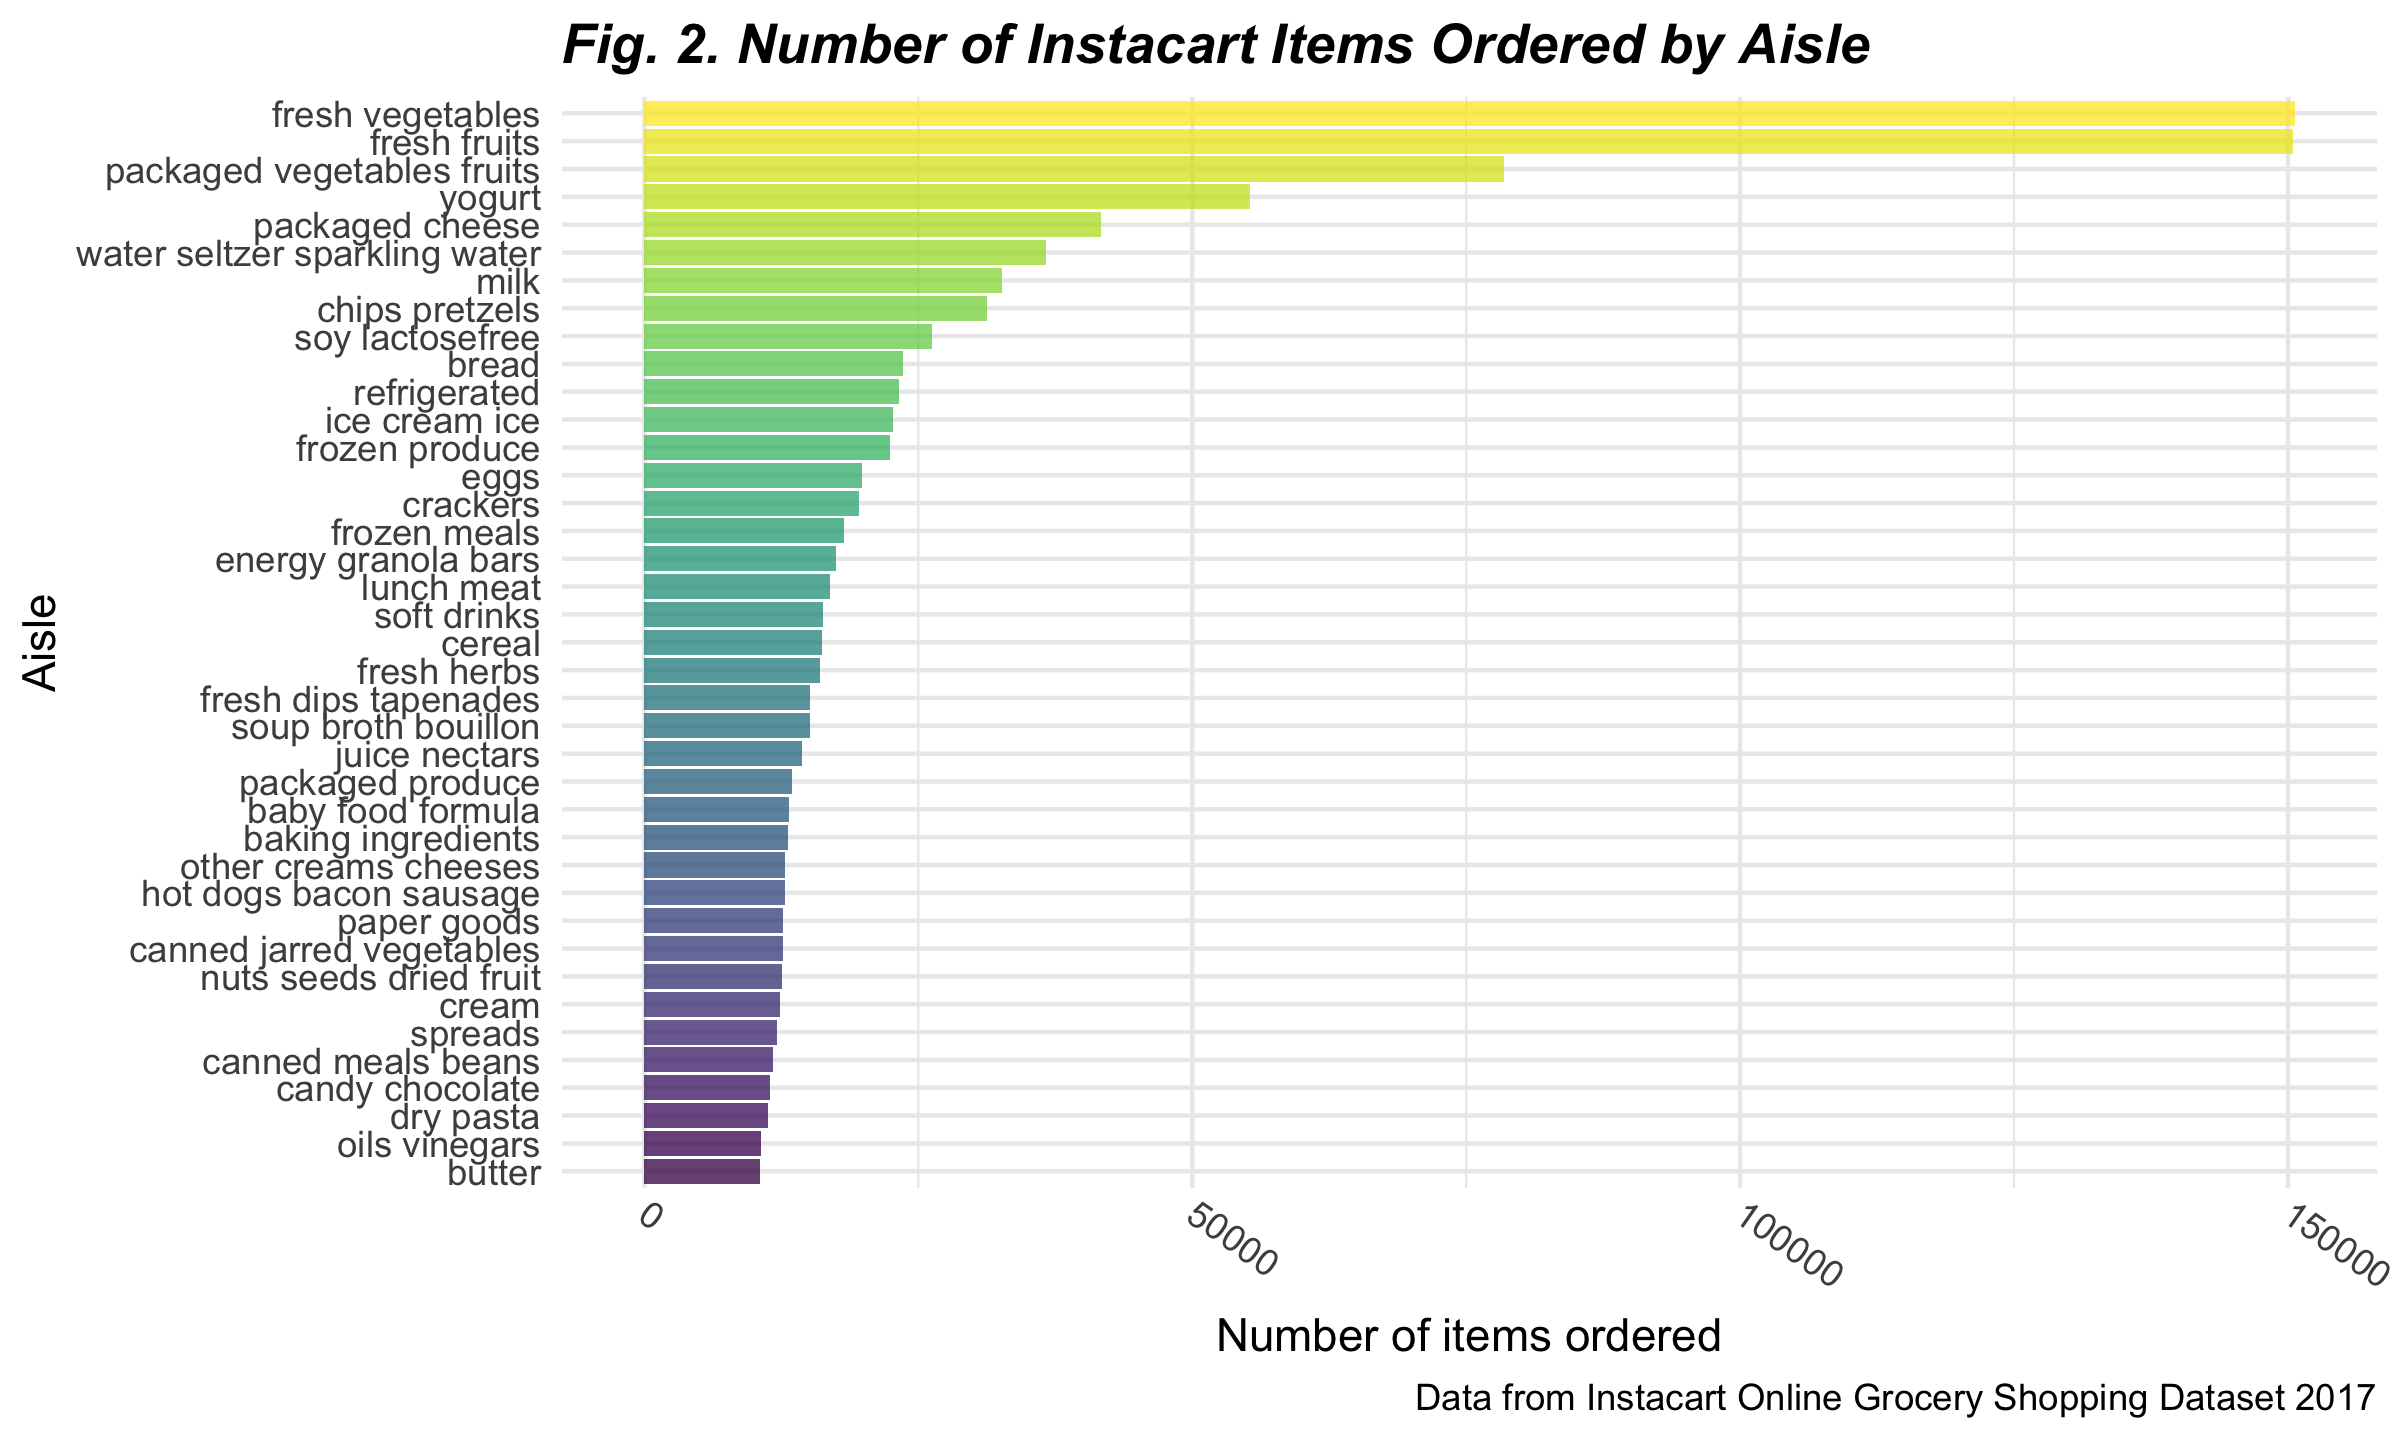
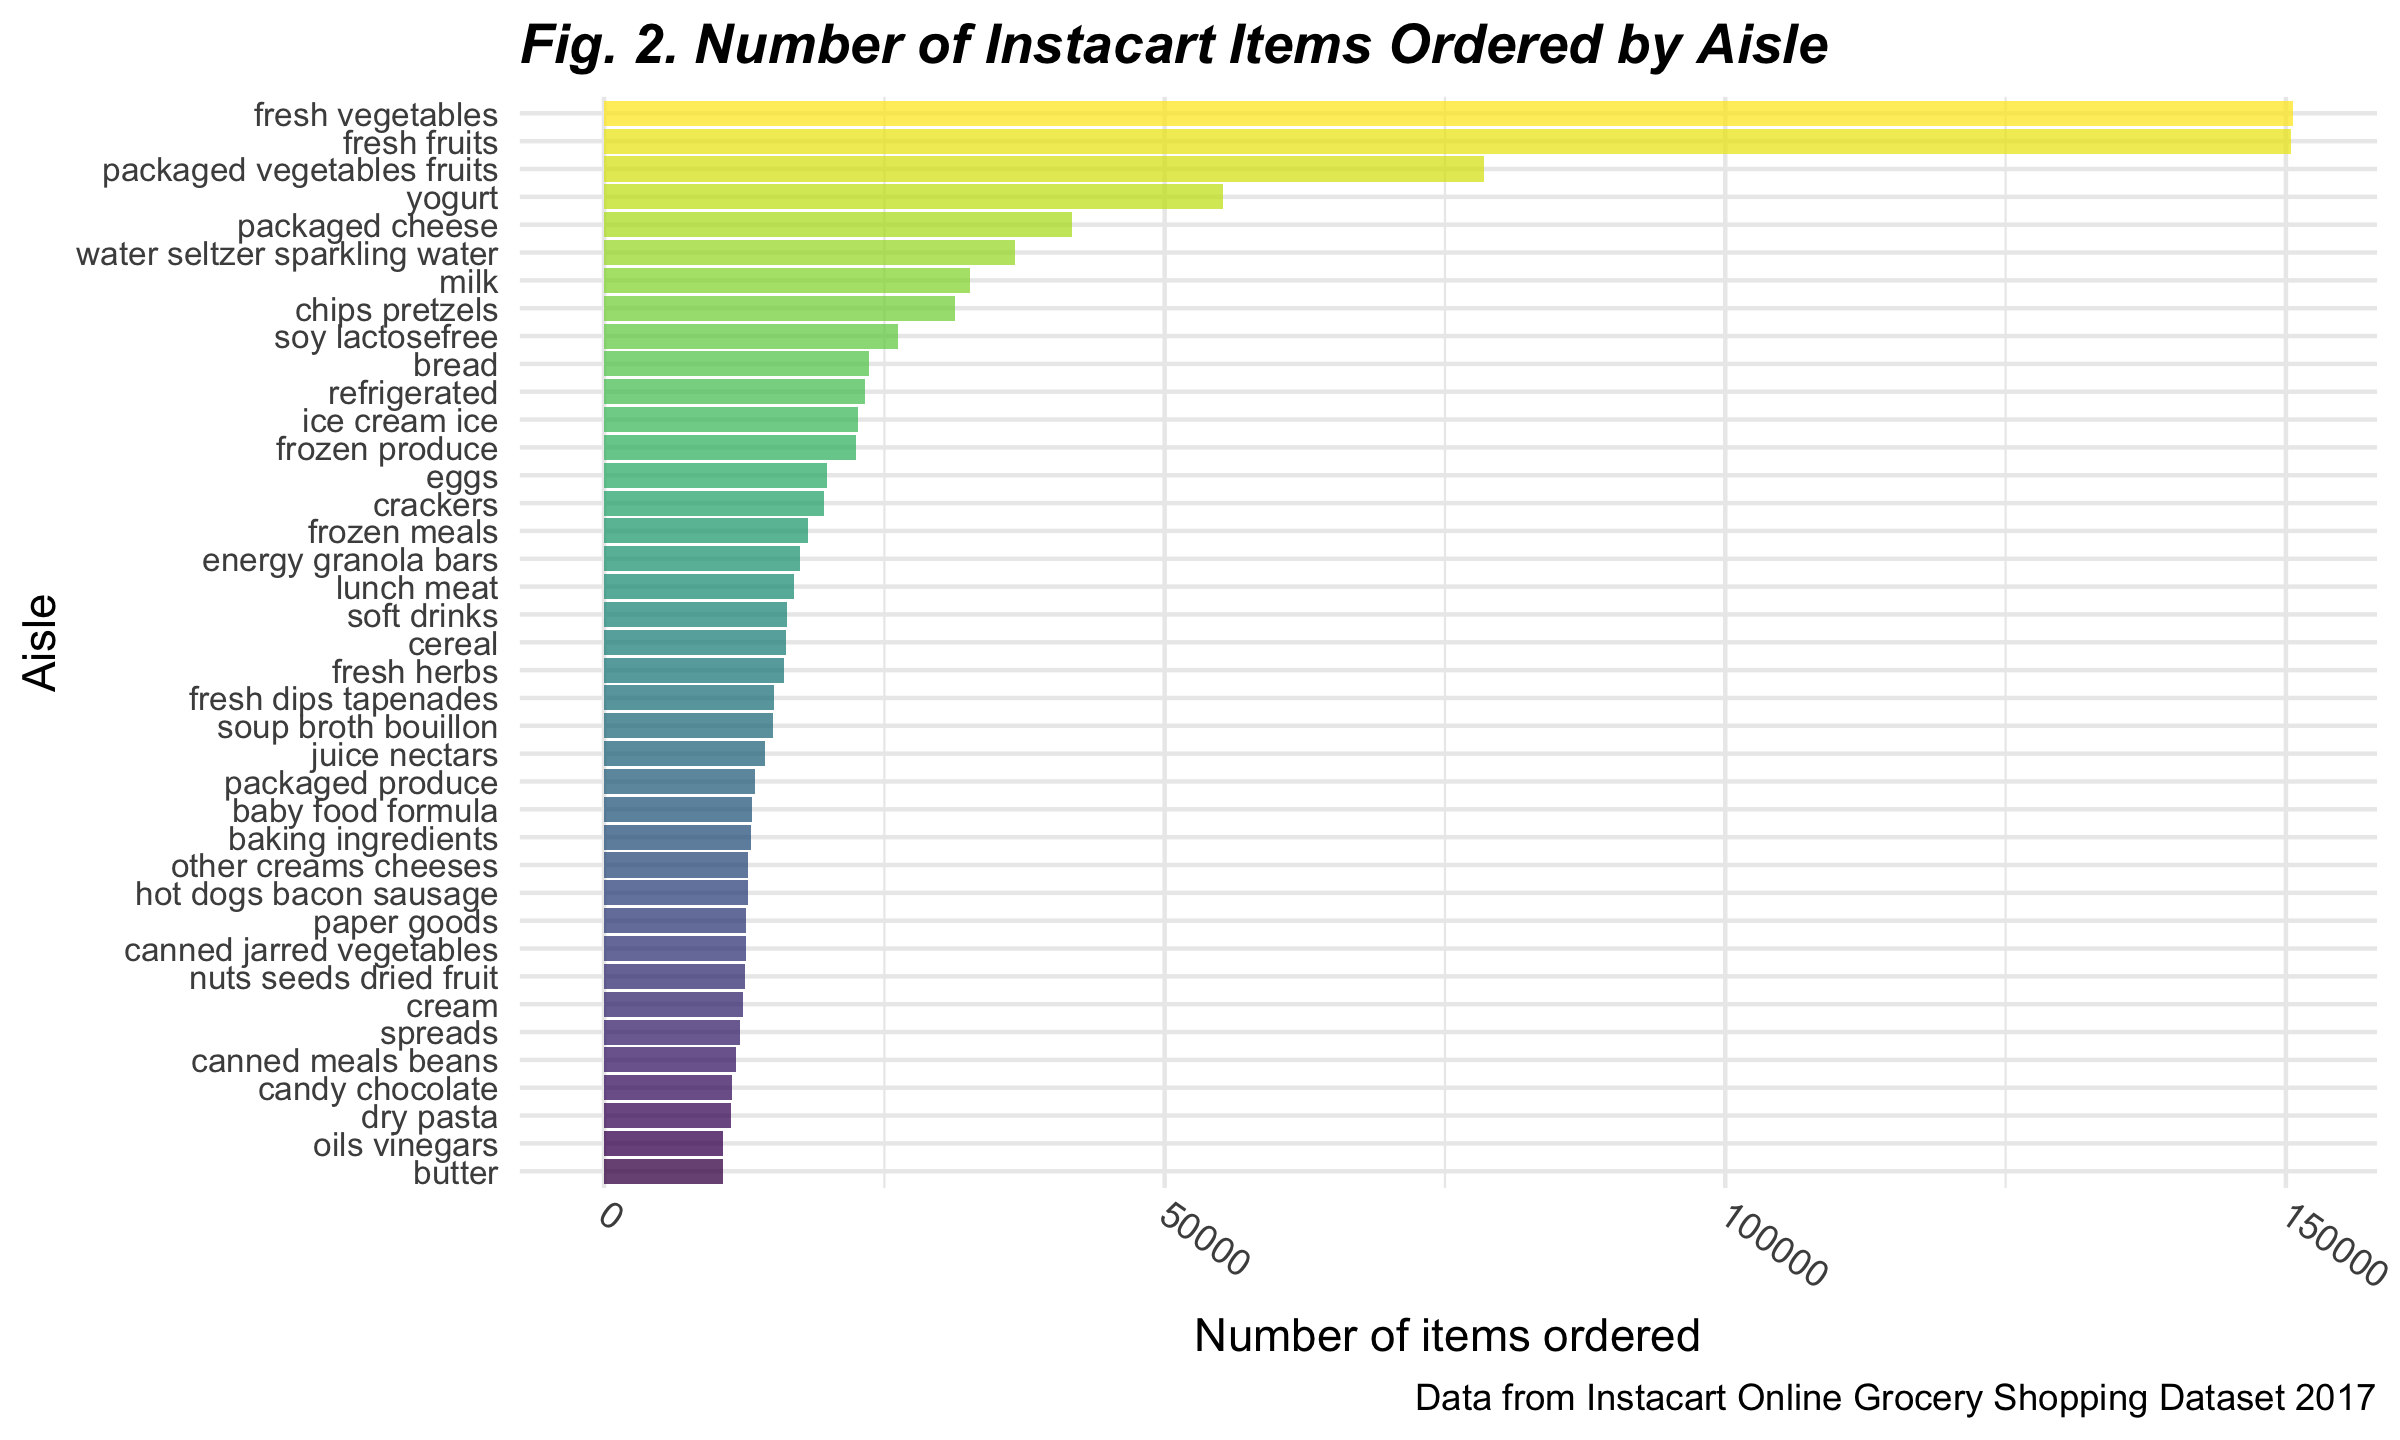
spacing edits

diff --git a/p8105_hw3_jys2137.md b/p8105_hw3_jys2137.md
@@ -123,6 +123,7 @@ instacart_df %>%
   coord_flip() +
   theme(
     axis.text.x = element_text(angle = -35, hjust = 0, vjust = .5),
+    axis.text.y = element_text(size = 8),
     plot.title = element_text(face = "bold.italic" ),
     legend.position = "none") +
   labs(
@@ -144,7 +145,8 @@ was ordered.
 ``` r
 pop_item =
   instacart_df %>% 
-  filter(aisle %in% c("baking ingredients", "dog food care", "packaged vegetables fruits")) %>%
+  filter(aisle %in% c("baking ingredients", "dog food care", "packaged vegetables 
+                      fruits")) %>%
   group_by(aisle) %>% 
   count(product_name) %>%
   mutate(rank = rank(desc(n))) %>% 
@@ -163,11 +165,11 @@ knitr::kable(pop_item,
              align = "clll")
 ```
 
-| Rank | Baking Ingredients                    | Dog Food Care                                                    | Packaged Vegetables Fruits                |
-|:----:|:--------------------------------------|:-----------------------------------------------------------------|:------------------------------------------|
-|  1   | Light Brown Sugar - ordered 499 times | Snack Sticks Chicken & Rice Recipe Dog Treats - ordered 30 times | Organic Baby Spinach - ordered 9784 times |
-|  2   | Pure Baking Soda - ordered 387 times  | Organix Chicken & Brown Rice Recipe - ordered 28 times           | Organic Raspberries - ordered 5546 times  |
-|  3   | Cane Sugar - ordered 336 times        | Small Dog Biscuits - ordered 26 times                            | Organic Blueberries - ordered 4966 times  |
+| Rank | Baking Ingredients                    | Dog Food Care                                                    |
+|:----:|:--------------------------------------|:-----------------------------------------------------------------|
+|  1   | Light Brown Sugar - ordered 499 times | Snack Sticks Chicken & Rice Recipe Dog Treats - ordered 30 times |
+|  2   | Pure Baking Soda - ordered 387 times  | Organix Chicken & Brown Rice Recipe - ordered 28 times           |
+|  3   | Cane Sugar - ordered 336 times        | Small Dog Biscuits - ordered 26 times                            |
 
 ***Fig. 3. Top 3 Items Ordered by Aisle***
 
@@ -195,7 +197,8 @@ pink_coff_table =
 
   knitr::kable(pink_coff_table,
              digits = 2,
-             caption = "_**Fig. 4. Mean Hour of Day for Pink Lady Appples and Coffee Ice Cream**_")
+             caption = "_**Fig. 4. Mean Hour of Day for Pink Lady Appples and 
+             Coffee Ice Cream**_")
 ```
 
 | Product          |   Sun |   Mon |  Tues |   Wed | Thurs |   Fri |   Sat |
@@ -276,7 +279,8 @@ brfss_states =
 
 knitr::kable(brfss_states,
              col.names = c("State", "2002", "2010"),
-             caption = "_**Fig. 5. States observed at 7 or more locations in 2002 and 2010**_")
+             caption = "_**Fig. 5. States observed at 7 or more locations in 2002 
+             and 2010**_")
 ```
 
 | State | 2002 | 2010 |
@@ -416,7 +420,8 @@ accel_df =
     values_to = "activity_count") %>% 
   mutate(
     minute = as.numeric(minute),
-    day = factor(day, levels = c("Sunday", "Monday", "Tuesday", "Wednesday","Thursday", "Friday", "Saturday")),
+    day = factor(day, levels = c("Sunday", "Monday", "Tuesday", 
+                                 "Wednesday","Thursday", "Friday", "Saturday")),
     weekday_weekend = as.numeric(day %in% c("Saturday", "Sunday")),
     weekday_weekend = recode(weekday_weekend, 
                              `0` = "weekday", `1` = "weekend"))
